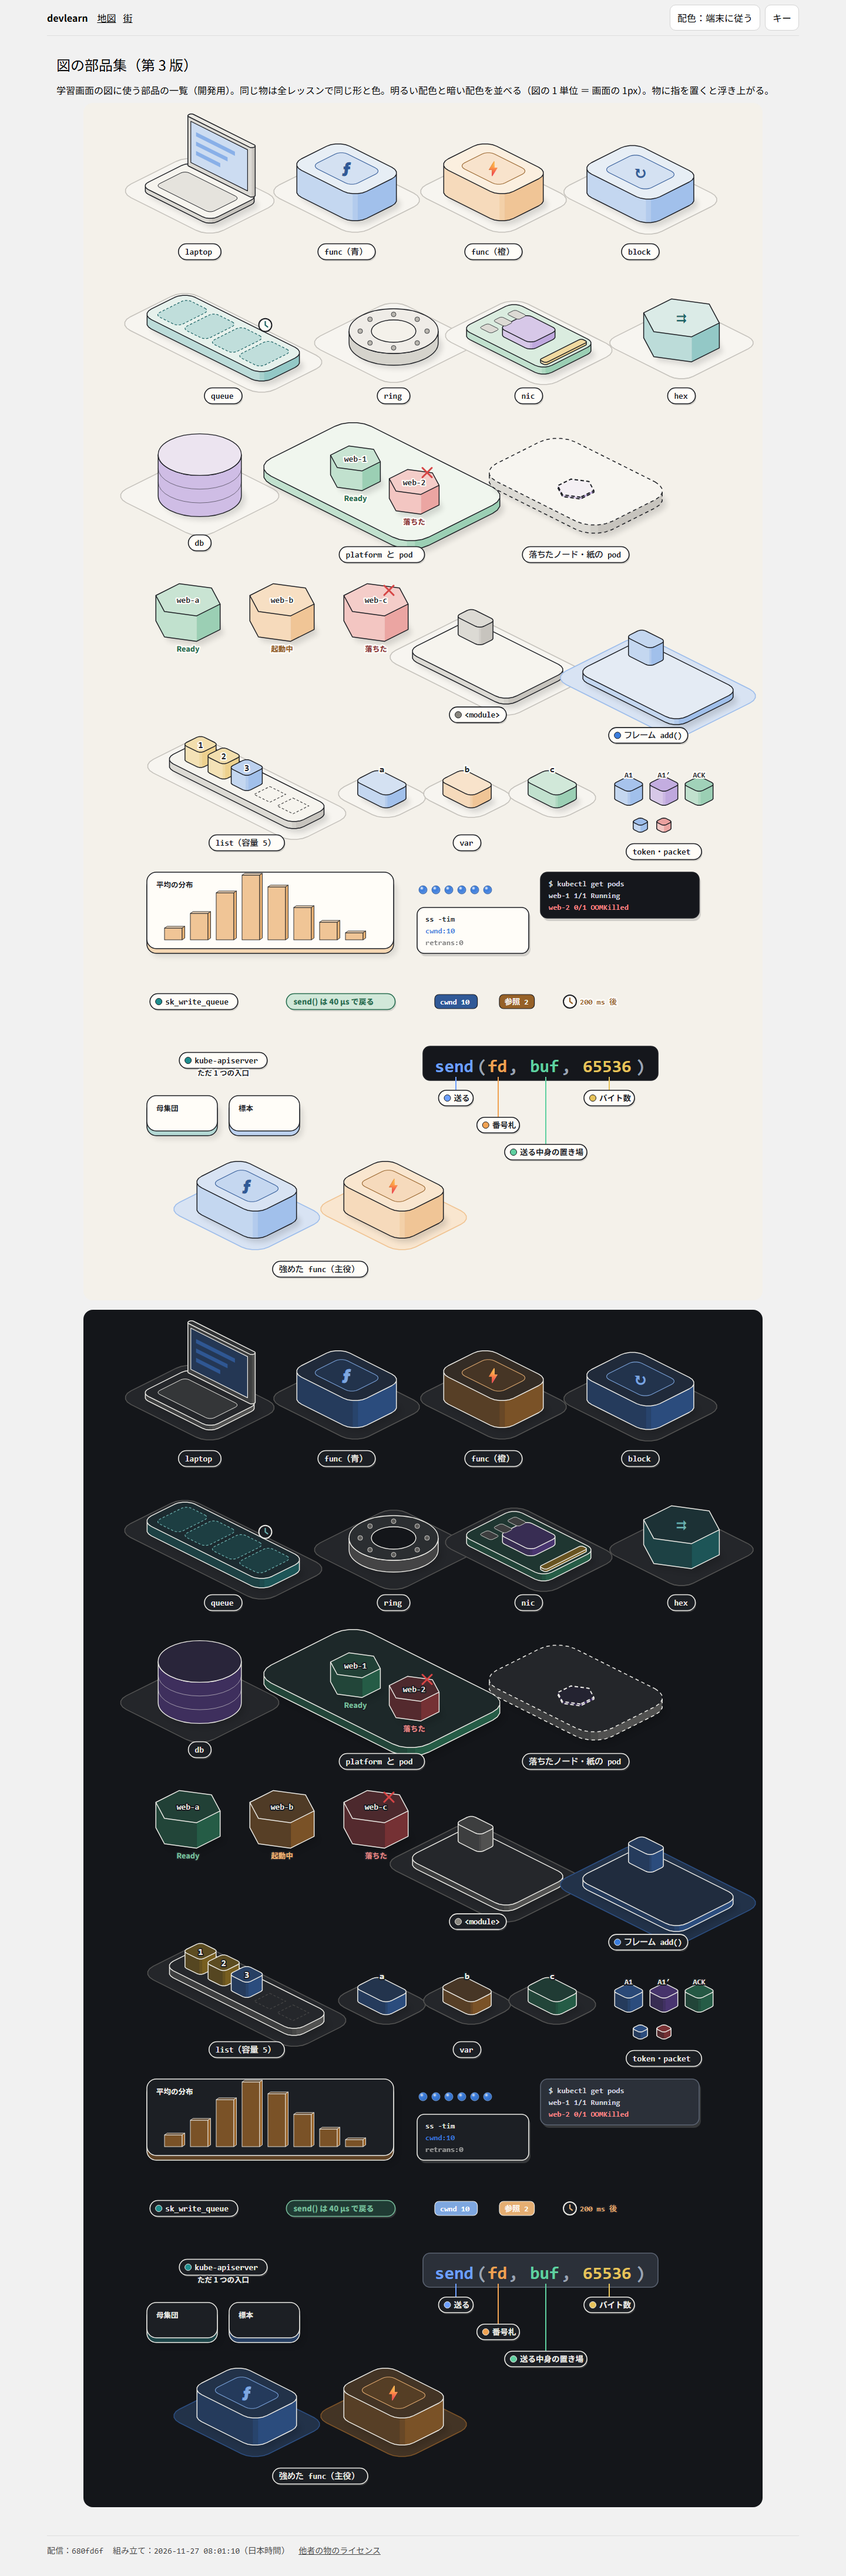
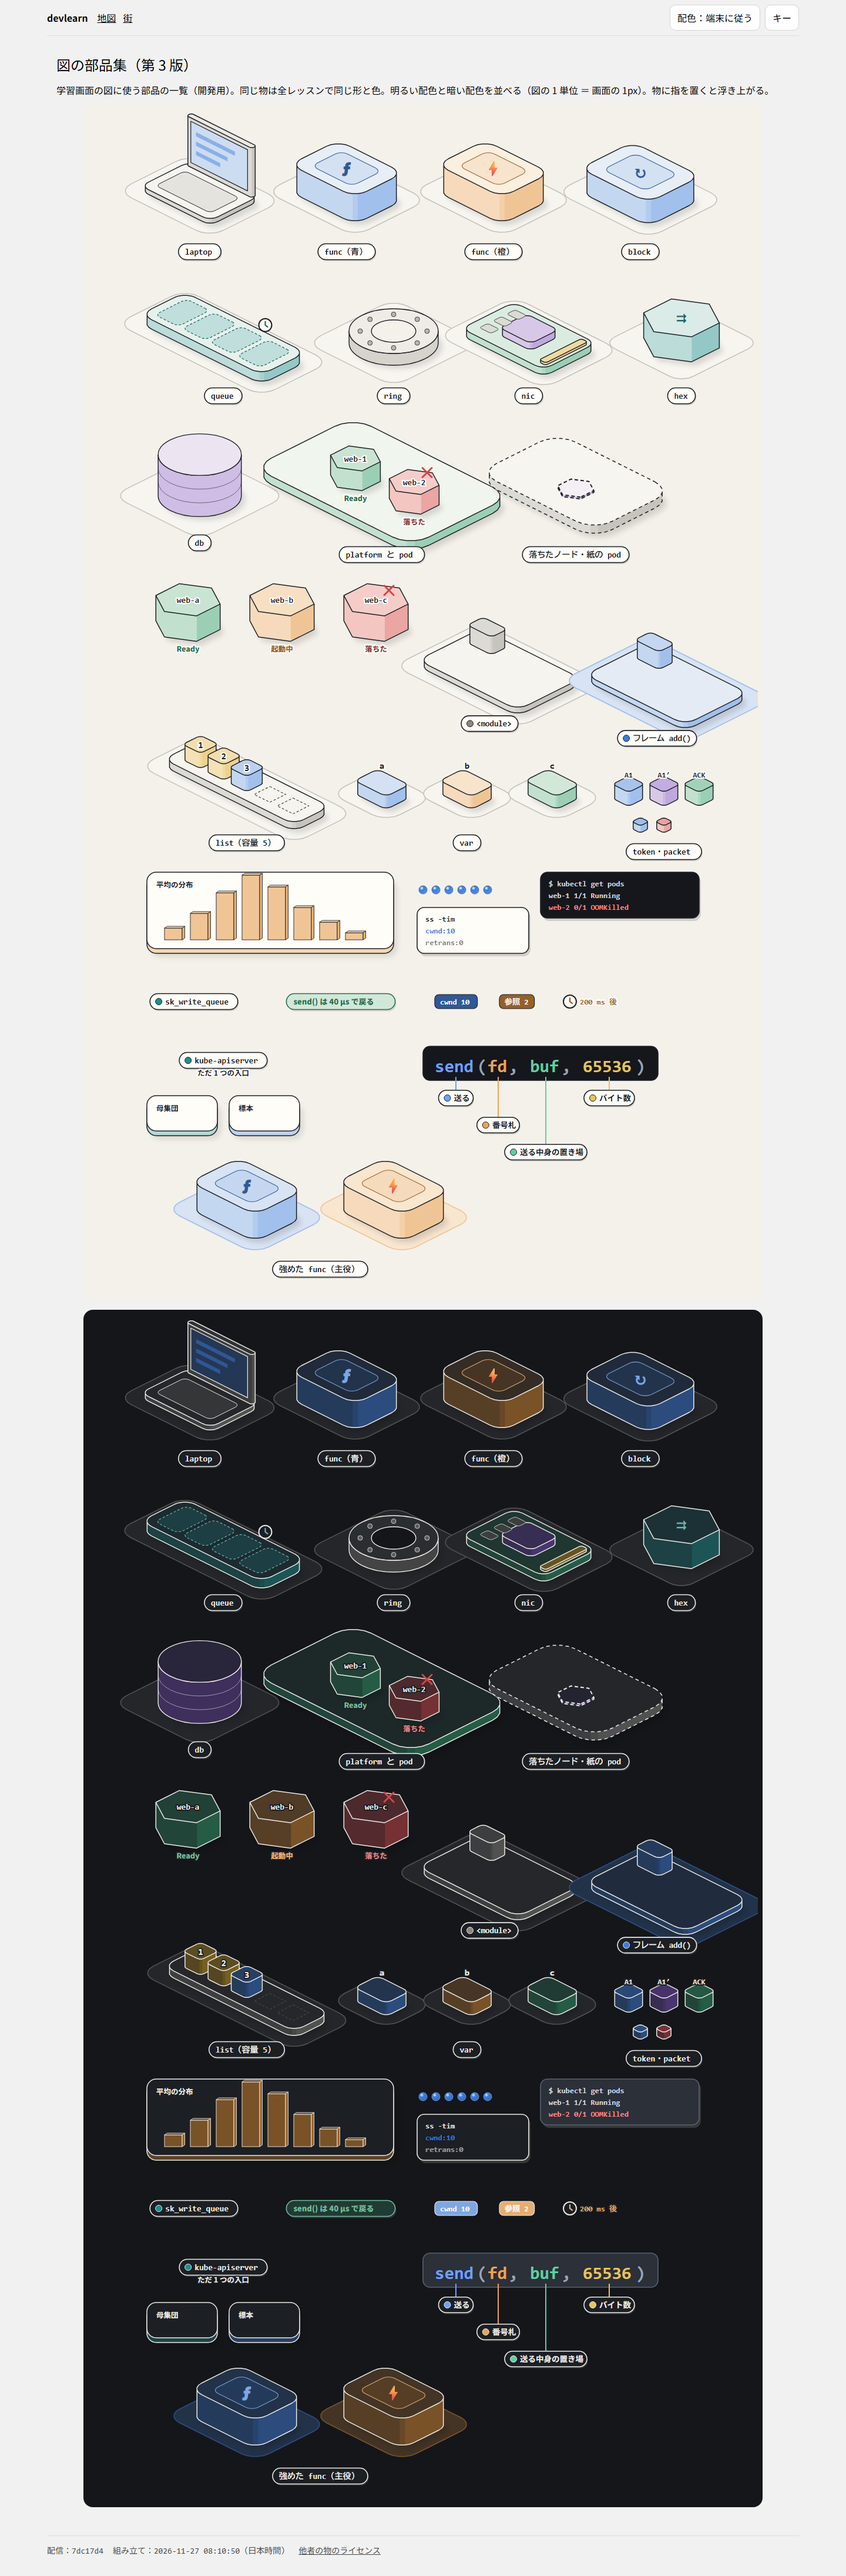
devlearn 10-P 手順 3・4：4 回目の判定（A 18/20・B 16/20）の「<」を直す（frame をはみ出さず離す、panel を厚く題 14px・中身つき 3 色、token の名前を箱から離す、queue の時計を縁から上げる）。手順 4：図の枠 Stage と UIK、/kit に倍率 0.5・1・2 の図、測り look-uik.ts

Changed region(s): [[0.5, 0.6831, 0.9062, 0.7763], [0.5, 0.2174, 0.9062, 0.3105]]

diff --git a/devlearn/src/routes/kit/+page.svelte b/devlearn/src/routes/kit/+page.svelte
@@ -27,9 +27,13 @@
 	import Num from '#lib/ui/scene/label/Num.svelte';
 	import Tag from '#lib/ui/scene/label/Tag.svelte';
 	import Halo from '#lib/ui/scene/label/Halo.svelte';
+	import Stage from '#lib/ui/scene/Stage.svelte';
+	import { LABEL_PX, zoomView } from '#lib/ui/scene/label/uik.ts';
 
 	const schemes = ['light', 'dark'] as const;
 	let hov = $state('');
+	/** 字の大きさの確かめ（16.3）：同じ図を倍率 0.5・1・2 で描く */
+	const zooms = [0.5, 1, 2];
 </script>
 
 <svelte:head><title>部品集 — devlearn</title></svelte:head>
@@ -90,8 +94,8 @@
 					<Pod x={100} y={880} s={0.8} state="ready" name="web-a" />
 					<Pod x={260} y={880} s={0.8} state="create" name="web-b" />
 					<Pod x={420} y={880} s={0.8} state="dead" name="web-c" />
-					<Frame x={630} y={965} w={190} d={120} name="<module>" />
-					<Frame x={915} y={990} w={190} d={120} name="フレーム add()" current id="frame" />
+					<Frame x={590} y={950} w={190} d={120} name="<module>" />
+					<Frame x={860} y={1000} w={190} d={120} name="フレーム add()" current id="frame" />
 					<!-- 5 段目 -->
 					<List x={200} y={1160} vals={['1', '2', '3']} cap={5} newIdx={2} id="list" />
 					{@render name(200, 1250, 'list（容量 5）')}
@@ -99,9 +103,9 @@
 					<Var x={575} y={1170} name="b" />
 					<Var x={720} y={1170} name="c" />
 					{@render name(575, 1250, 'var')}
-					<Token x={850} y={1160} label="A1" />
+					<Token x={840} y={1160} label="A1" />
 					<Token x={910} y={1160} label="A1′" kind="clone" />
-					<Token x={970} y={1160} label="ACK" kind="ack" />
+					<Token x={980} y={1160} label="ACK" kind="ack" />
 					<Packet x={870} y={1220} />
 					<Packet x={910} y={1220} kind="drop" />
 					{@render name(910, 1265, 'token・packet')}
@@ -158,8 +162,21 @@
 					<Func x={200} y={1880} tone="blue" glyph="ƒ" hl />
 					<Func x={450} y={1880} tone="orange" glyph="⚡" hl />
 					<Tag x={325} y={1975} text="強めた func（主役）" size={14} />
-					<Panel x={30} y={1680} w={120} h={60} tone="teal" title="母集団" />
-					<Panel x={170} y={1680} w={120} h={60} tone="blue" title="標本" />
+					<Panel x={30} y={1670} w={190} h={100} tone="teal" title="母集団">
+						{#each [0, 1, 2, 3, 4, 5, 6] as i (i)}
+							<Sphere x={58 + i * 22} y={1745 - (i % 2) * 10} r={9} tone="teal" />
+						{/each}
+					</Panel>
+					<Panel x={240} y={1670} w={190} h={100} tone="blue" title="標本">
+						{#each [0, 1, 2] as i (i)}
+							<Sphere x={295 + i * 45} y={1740} r={10} />
+						{/each}
+					</Panel>
+					<Panel x={450} y={1670} w={190} h={100} tone="orange" title="平均">
+						{#each [18, 34, 50, 34, 18] as h, i (i)}
+							<Bar x={480 + i * 28} y={1756} w={20} {h} tone="orange" />
+						{/each}
+					</Panel>
 					<!-- 7 段目：札（label/） -->
 					<Tag x={110} y={1520} text="sk_write_queue" dot="var(--dl-obj-teal)" />
 					<Note x={360} y={1520} text="send() は 40 µs で戻る" />
@@ -168,6 +185,62 @@
 					<Clock x={750} y={1520} label="200 ms 後" />
 				</svg>
 			</section>
+		{/each}
+	</div>
+	<h2>字の大きさ（寄っても引いても同じ。16.3）</h2>
+	<p>
+		同じ図（1000×600）を倍率 0.5・1・2 で描く。物は大きさが変わり、札の字は画面の上でいつも同じ
+		px（名前
+		{LABEL_PX.name}px・説明 {LABEL_PX.sub}px・数 {LABEL_PX.num}px・線 {LABEL_PX.line}px）。
+	</p>
+	<div class="zooms dl-scene-light">
+		{#each zooms as z (z)}
+			<figure>
+				<div class="zbox">
+					<Stage view={zoomView(1000, 600, z)} zoom={z} label="倍率 {z} の図">
+						{#snippet children(uik)}
+							<Func x={420} y={300} s={1} tone="blue" glyph="ƒ" {uik} />
+							<Queue x={600} y={300} {uik} />
+							<line
+								x1={470}
+								y1={300}
+								x2={550}
+								y2={300}
+								style:stroke="var(--dl-ink)"
+								stroke-width={1.5 * uik}
+							/>
+							<g data-lk="name"><Tag x={420} y={380} text="tcp_sendmsg" {uik} /></g>
+							<g data-lk="sub">
+								<Halo
+									x={420}
+									y={380 + 26 * uik}
+									text="データを写す"
+									size={LABEL_PX.sub}
+									{uik}
+									anchor="middle"
+									weight={700}
+								/>
+							</g>
+							<g data-lk="num"><Num x={600} y={220} text="cwnd 10" size={LABEL_PX.num} {uik} /></g>
+							<g data-lk="line">
+								<Halo
+									x={510}
+									y={290}
+									text="写す"
+									size={LABEL_PX.line}
+									{uik}
+									anchor="middle"
+									weight={700}
+								/>
+							</g>
+							<g data-lk="note"
+								><Note x={420} y={215} text="40 µs で戻る" size={LABEL_PX.note} {uik} /></g
+							>
+						{/snippet}
+					</Stage>
+				</div>
+				<figcaption>倍率 {z}</figcaption>
+			</figure>
 		{/each}
 	</div>
 </main>
@@ -184,6 +257,27 @@
 		grid-template-columns: repeat(auto-fit, 1156px);
 		gap: 16px;
 		justify-content: center;
+	}
+	.zooms {
+		display: grid;
+		grid-template-columns: repeat(3, 460px);
+		gap: 16px;
+		justify-content: center;
+	}
+	.zooms figure {
+		margin: 0;
+		background: var(--dl-scene-bg);
+		border-radius: 16px;
+		padding: 8px;
+	}
+	.zbox {
+		width: 444px;
+		height: 266px;
+		overflow: hidden;
+	}
+	figcaption {
+		text-align: center;
+		color: var(--dl-ink);
 	}
 	section {
 		background: var(--dl-scene-bg);

diff --git a/devlearn/scripts/look-uik.ts b/devlearn/scripts/look-uik.ts
@@ -1,0 +1,61 @@
+// 10-P 手順 4 の測り：札の字は寄っても引いても画面の上で 13〜15px か（learn-standard.md 16.3）。
+//   npx tsx scripts/look-uik.ts [本番の URL の根]
+// 公開 URL の /kit の「字の大きさ」の 3 つの図（倍率 0.5・1・2）で、札の種類ごとに字の画面の上の大きさを測る。
+// 画面の上の大きさ ＝ 字の大きさ（図の単位）× 図の 1 単位が画面で何 px か（getScreenCTM）。
+// 記録は docs/progress/shots/phase-10-P/uik.json。1 つでも範囲の外なら終わりの値 1
+import { mkdirSync, writeFileSync } from 'node:fs';
+import { labelOk, type LabelKind } from '../src/lib/ui/scene/label/uik.ts';
+import { openChrome, sleep } from './lib/cdp.ts';
+
+const base = (process.argv[2] ?? 'https://devlearn.techcurrybread.workers.dev').replace(/\/$/, '');
+const OUT = 'docs/progress/shots/phase-10-P';
+
+type Row = { zoom: number; kind: LabelKind; text: string; px: number; ok: boolean };
+
+const MEASURE = `(() => {
+	const out = [];
+	for (const st of document.querySelectorAll('.stage[data-zoom]')) {
+		const zoom = Number(st.getAttribute('data-zoom'));
+		for (const g of st.querySelectorAll('g[data-lk]')) {
+			for (const t of g.querySelectorAll('text')) {
+				const m = t.getScreenCTM();
+				const fs = parseFloat(getComputedStyle(t).fontSize);
+				out.push({ zoom, kind: g.getAttribute('data-lk'), text: t.textContent.trim(), px: fs * Math.hypot(m.a, m.b) });
+			}
+		}
+	}
+	return out;
+})()`;
+
+async function main() {
+	mkdirSync(OUT, { recursive: true });
+	const { tab, chrome } = await openChrome(9358, { gpu: false, headless: true });
+	let bad = 0;
+	try {
+		await tab.size(1440, 900, false);
+		await tab.go(`${base}/kit`);
+		await sleep(2500);
+		const raw = await tab.eval<Omit<Row, 'ok'>[]>(MEASURE);
+		const rows: Row[] = (raw ?? []).map((r) => ({
+			...r,
+			px: +r.px.toFixed(2),
+			ok: labelOk(r.kind, r.px)
+		}));
+		const zooms = new Set(rows.map((r) => r.zoom));
+		for (const z of [0.5, 1, 2])
+			if (!zooms.has(z)) {
+				console.log(`× 倍率 ${z} の図が無い`);
+				bad++;
+			}
+		for (const r of rows) {
+			console.log(`${r.ok ? 'o' : '×'} 倍率 ${r.zoom} ${r.kind} 「${r.text}」 ${r.px}px`);
+			if (!r.ok) bad++;
+		}
+		writeFileSync(`${OUT}/uik.json`, JSON.stringify({ base, rows }, null, 1));
+		console.log(bad ? `× ${bad} 件` : `o 全て範囲の中（${rows.length} 件）`);
+	} finally {
+		chrome.kill();
+	}
+	process.exit(bad ? 1 : 0);
+}
+main();

diff --git a/devlearn/src/lib/ui/scene/label/uik.test.ts b/devlearn/src/lib/ui/scene/label/uik.test.ts
@@ -1,5 +1,5 @@
 import { describe, expect, it } from 'vitest';
-import { LABEL_PX, uikOf } from './uik';
+import { LABEL_PX, labelOk, uikOf, zoomView } from './uik';
 
 describe('UIK（learn-standard.md 16.3：字は画面の上で一定）', () => {
 	it('図の 1 単位が画面の何 px か：図の枠に合わせて縮む向きの大きい方', () => {
@@ -27,5 +27,30 @@ describe('UIK（learn-standard.md 16.3：字は画面の上で一定）', () => 
 		expect(LABEL_PX.num).toBeGreaterThanOrEqual(12);
 		expect(LABEL_PX.num).toBeLessThanOrEqual(14);
 		expect(LABEL_PX.line).toBeGreaterThanOrEqual(12);
+	});
+});
+
+describe('寄る・引く（16.3 の確かめ）', () => {
+	it('zoomView：倍率 2 で中心を保って半分の範囲、0.5 で倍の範囲', () => {
+		expect(zoomView(1000, 600, 2)).toEqual([250, 150, 500, 300]);
+		expect(zoomView(1000, 600, 0.5)).toEqual([-500, -300, 2000, 1200]);
+		expect(zoomView(1000, 600, 1)).toEqual([0, 0, 1000, 600]);
+	});
+	it('倍率を変えても、uik を掛けた字は画面の上で同じ px', () => {
+		for (const z of [0.5, 1, 2]) {
+			const [, , w, h] = zoomView(1000, 600, z);
+			const k = uikOf(w, h, 940, 564);
+			const scale = Math.min(940 / w, 564 / h);
+			expect(LABEL_PX.name * k * scale).toBeCloseTo(14);
+		}
+	});
+	it('labelOk：札の種類ごとの範囲（名前 13〜15・説明 12〜13・数 12〜14・線 12〜13）', () => {
+		expect(labelOk('name', 14)).toBe(true);
+		expect(labelOk('name', 12.9)).toBe(false);
+		expect(labelOk('name', 15.2)).toBe(false);
+		expect(labelOk('sub', 12.5)).toBe(true);
+		expect(labelOk('num', 11.5)).toBe(false);
+		expect(labelOk('line', 12.5)).toBe(true);
+		expect(labelOk('note', 13)).toBe(true);
 	});
 });

diff --git a/devlearn/src/lib/ui/scene/label/uik.ts b/devlearn/src/lib/ui/scene/label/uik.ts
@@ -10,3 +10,27 @@ export function uikOf(viewW: number, viewH: number, boxW: number, boxH: number):
 	if (!(boxW > 0) || !(boxH > 0)) return 1;
 	return Math.max(viewW / boxW, viewH / boxH);
 }
+
+/** 札の種類ごとの、画面の上の字の大きさの範囲（px。16.3） */
+export const LABEL_RANGE = {
+	name: [13, 15],
+	sub: [12, 13],
+	num: [12, 14],
+	line: [12, 13],
+	note: [12, 15]
+} as const satisfies Record<keyof typeof LABEL_PX, readonly [number, number]>;
+
+export type LabelKind = keyof typeof LABEL_RANGE;
+
+/** 画面の上の字の大きさ px が、札の種類の範囲に入るか（小数の誤差 0.05 を許す） */
+export function labelOk(kind: LabelKind, px: number): boolean {
+	const [lo, hi] = LABEL_RANGE[kind];
+	return px >= lo - 0.05 && px <= hi + 0.05;
+}
+
+/** 図（w×h）を中心を保って zoom 倍に寄せた viewBox [x, y, 幅, 高さ]。zoom < 1 は引く */
+export function zoomView(w: number, h: number, zoom: number): [number, number, number, number] {
+	const vw = w / zoom;
+	const vh = h / zoom;
+	return [(w - vw) / 2, (h - vh) / 2, vw, vh];
+}

diff --git a/devlearn/src/lib/ui/scene/Stage.svelte b/devlearn/src/lib/ui/scene/Stage.svelte
@@ -1,0 +1,35 @@
+<script lang="ts">
+	// 図の枠（learn-standard.md 16.3）。枠の大きさを測って UIK を求め、中身に渡す。
+	// 中身は字の大きさ・札の余白・線の太さに uik を掛けて描くので、寄っても引いても画面の上の字は同じ px
+	import type { Snippet } from 'svelte';
+	import { uikOf } from './label/uik';
+
+	type Props = {
+		view: [number, number, number, number];
+		label: string;
+		zoom?: number;
+		children: Snippet<[number]>;
+	};
+	let { view, label, zoom, children }: Props = $props();
+	let bw = $state(0);
+	let bh = $state(0);
+	const uik = $derived(uikOf(view[2], view[3], bw, bh));
+</script>
+
+<div class="stage" bind:clientWidth={bw} bind:clientHeight={bh} data-zoom={zoom} data-uik={uik}>
+	<svg viewBox={view.join(' ')} role="img" aria-label={label} preserveAspectRatio="xMidYMid meet">
+		{@render children(uik)}
+	</svg>
+</div>
+
+<style>
+	.stage {
+		width: 100%;
+		height: 100%;
+	}
+	svg {
+		display: block;
+		width: 100%;
+		height: 100%;
+	}
+</style>

diff --git a/devlearn/src/lib/ui/scene/kit/Panel.svelte b/devlearn/src/lib/ui/scene/kit/Panel.svelte
@@ -35,7 +35,7 @@
 		term,
 		children
 	}: Props = $props();
-	const depth = 8;
+	const depth = 14;
 	const r = 16;
 </script>
 
@@ -48,7 +48,7 @@
 			width={w}
 			height={h}
 			rx={r}
-			style:fill={face(tone, 34)}
+			style:fill={face(tone, 46)}
 			style:stroke="var(--dl-ink)"
 			stroke-width={1.5 * uik}
 		/>
@@ -64,10 +64,11 @@
 		/>
 		{#if title}<Halo
 				x={x + 16}
-				y={y + 26 * uik}
+				y={y + 28 * uik}
 				text={title}
-				size={12.5}
+				size={14}
 				{uik}
+				weight={800}
 				color="var(--dl-ink)"
 			/>{/if}
 		{#if children}{@render children()}{/if}

diff --git a/devlearn/src/lib/ui/scene/kit/Queue.svelte b/devlearn/src/lib/ui/scene/kit/Queue.svelte
@@ -40,7 +40,7 @@
 			rrectPts(-100 + i * 52, -30, 44, 60, 9).map((q) => P.at(q[0], q[1], f[2] + 0.5))
 		)
 	);
-	const cp = $derived(P.at(80, 0, f[2] + 50));
+	const cp = $derived(P.at(80, 0, f[2] + 82));
 </script>
 
 <Base {x} {y} {s} {uik} w={f[0]} d={f[1]} {tone} {hl} {lift} {op} {id} {term}>

diff --git a/devlearn/src/lib/ui/scene/kit/Token.svelte b/devlearn/src/lib/ui/scene/kit/Token.svelte
@@ -31,7 +31,7 @@
 	{#if label}
 		<Halo
 			{x}
-			y={y - hh * 0.55 - 8 * uik}
+			y={y - hh * 0.55 - 13 * uik}
 			text={label}
 			size={13}
 			{uik}
